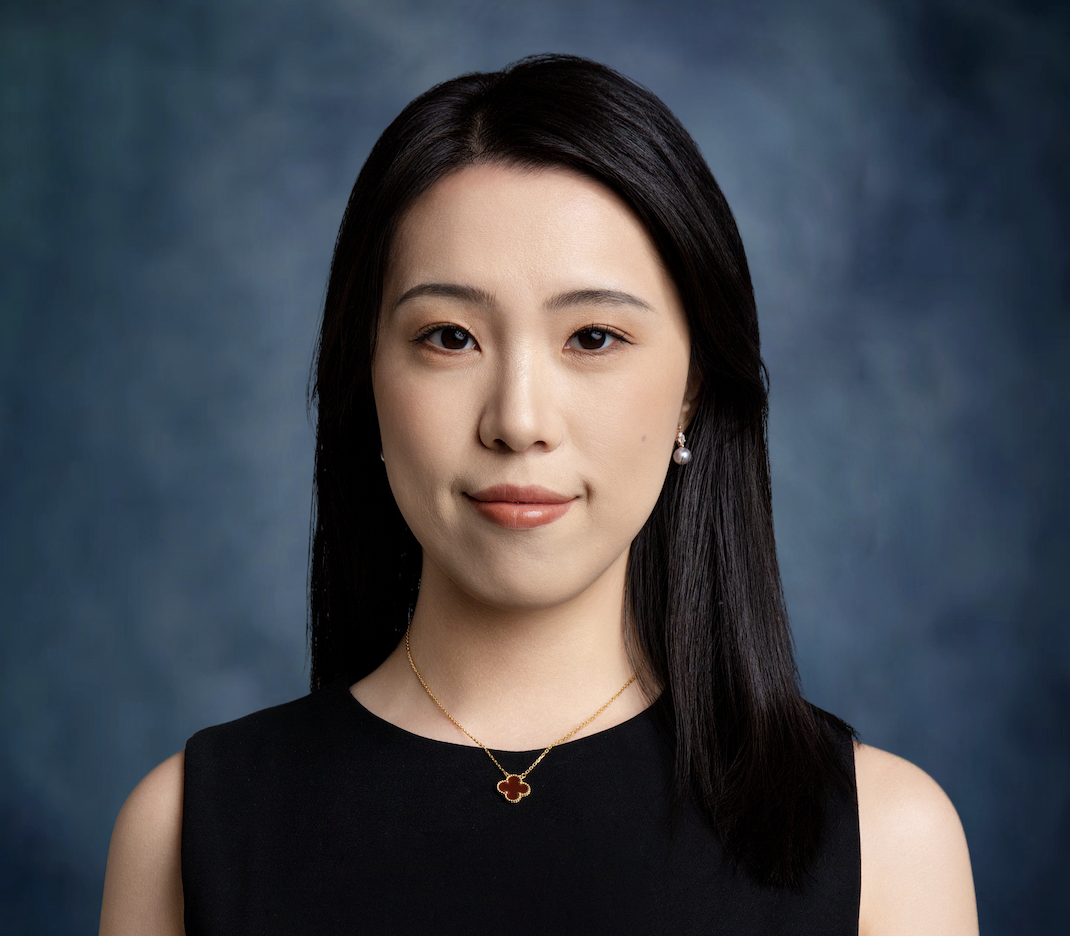
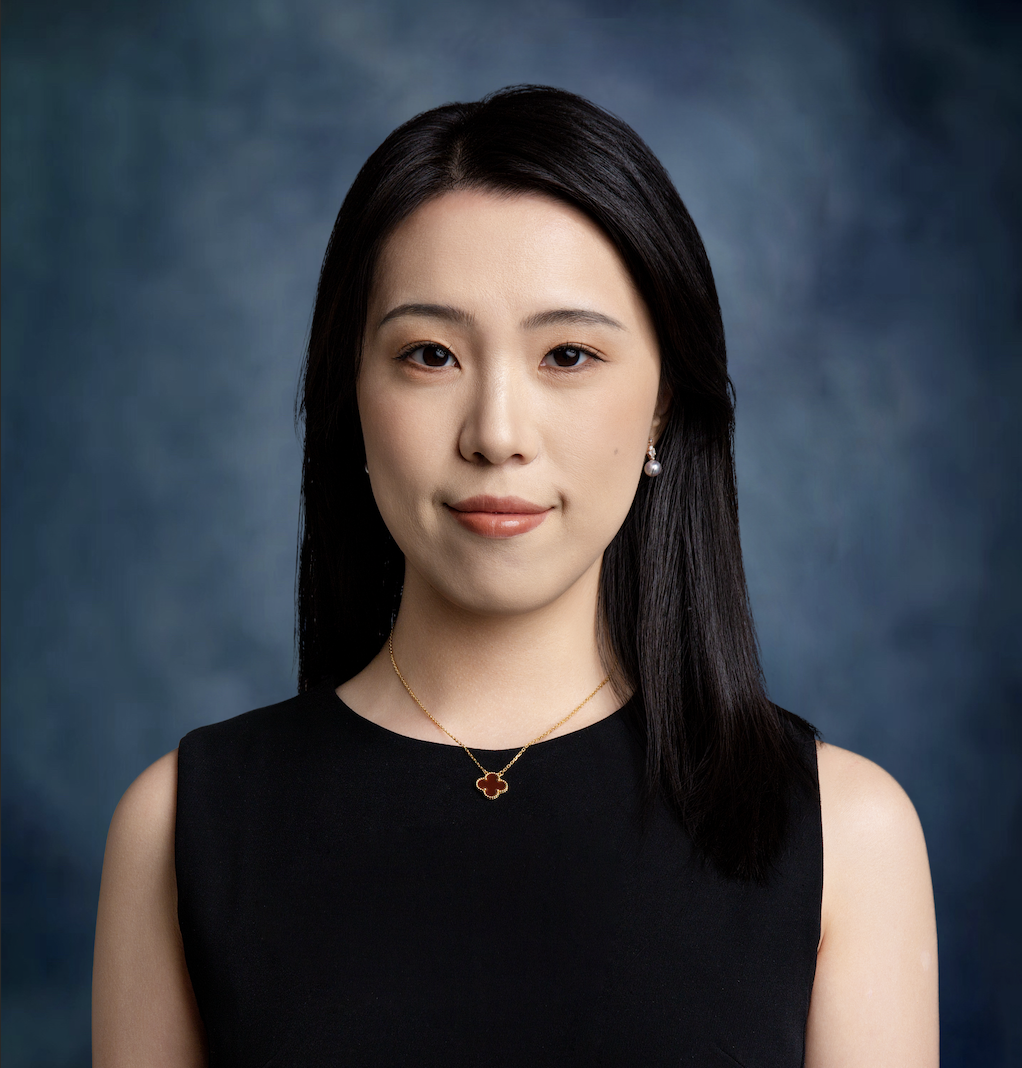
2nd update on Aug 24 24

diff --git a/assets/css/_page/_home.scss b/assets/css/_page/_home.scss
@@ -5,11 +5,11 @@
     text-align: center;
 
     .home-avatar {
-      padding: .9rem;
+      padding: .1rem;
 
       img {
         display: inline-block;
-        width: 8rem;
+        width: auto;
         height: auto;
         margin: 0 auto;
         @include border-radius(100%);
@@ -71,9 +71,10 @@
     @include transform(translateY(0));
     padding-top: 2rem;
   }
-
+  /*change the size of avatar*/
   .home-avatar img {
-    width: 9rem;
+    height: 100%;
+    width: 12rem;
   }
 
   .summary {
